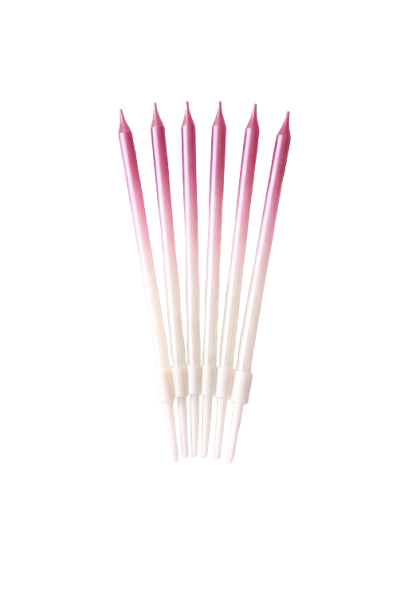
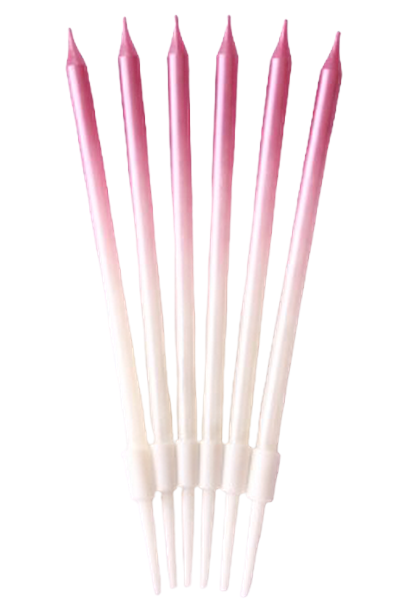
Fix candle image sizing: content-crop each spiral/ombré image individually
- Revert previous uniform scale-[1.6] CSS approach (wrong: each image
  had different content bounds so one scale didn't fit all)
- Content-crop and resize each image to fill its 408×612 frame:
  blue-ombre 45%→65%, thick-spiral 55%→80%, shiny-spiral 53%→77%,
  spiral-pastel 53%→85%, pink-ombre 42%→68% (all now ~95% height)
- All spiral candles now display at consistent visual size matching
  the Pink Gold / Silver / Gold / Champagne spirals

Claude-Session: https://claude.ai/code/session_01SnvWgp6uZ9RRA8RfdsPh4F

Changed region(s): [[0.1471, 0.031, 0.8529, 0.9624]]

diff --git a/src/pages/KitBentoCake.tsx b/src/pages/KitBentoCake.tsx
@@ -179,16 +179,16 @@ const pipingBagOptions = [
 
 export const candles = [
   // Single ordered list (Blue Ombré, Thick Spiral, Shiny Spiral, Pastel Spiral, Rainbow, Pink Ombré, Daisy, Red Heart, then the rest)
-  { id: "blue-ombre", name: "Blue Ombré", nameFr: "Ombré Bleu", image: candleBlueOmbre, imageClassName: "h-40 w-40 scale-[1.6]", unitPrice: 1, hasPack: true, packPrice: 5, packSize: 6 },
-  { id: "thick-spiral", name: "Thick Spiral", nameFr: "Spirale Épaisse", image: candleThickSpiral, imageClassName: "h-40 w-40 scale-[1.6]", unitPrice: 2, hasPack: true, packPrice: 10, packSize: 6 },
+  { id: "blue-ombre", name: "Blue Ombré", nameFr: "Ombré Bleu", image: candleBlueOmbre, unitPrice: 1, hasPack: true, packPrice: 5, packSize: 6 },
+  { id: "thick-spiral", name: "Thick Spiral", nameFr: "Spirale Épaisse", image: candleThickSpiral, unitPrice: 2, hasPack: true, packPrice: 10, packSize: 6 },
   { id: "pink-gold-spiral", name: "Pink Gold Spiral", nameFr: "Spirale Or Rose", image: candlePinkGoldSpiral, imageClassName: "h-40 w-40 scale-[1.6]", unitPrice: 1, hasPack: true, packPrice: 5, packSize: 6 },
   { id: "silver-spiral", name: "Silver Spiral", nameFr: "Spirale Argent", image: candleSilverSpiral, imageClassName: "h-40 w-40 scale-[1.6]", unitPrice: 1, hasPack: true, packPrice: 5, packSize: 6 },
   { id: "gold-spiral", name: "Gold Spiral", nameFr: "Spirale Or", image: candleGoldSpiral, imageClassName: "h-40 w-40 scale-[1.6]", unitPrice: 1, hasPack: true, packPrice: 5, packSize: 6 },
   { id: "spiral-champagne", name: "Spiral Champagne", nameFr: "Spirale Champagne", image: candleChampagneSpiral, imageClassName: "h-40 w-40 scale-[1.6]", unitPrice: 1, hasPack: true, packPrice: 5, packSize: 6 },
-  { id: "shiny-spiral", name: "Shiny Spiral", nameFr: "Spirale Brillante", image: candleShinySpiral, imageClassName: "h-40 w-40 scale-[1.6]", unitPrice: 1, hasPack: true, packPrice: 5, packSize: 6 },
-  { id: "spiral-pastel", name: "Pastel Spiral", nameFr: "Spirale Pastel", image: candleSpiralPastel, imageClassName: "h-40 w-40 scale-[1.6]", unitPrice: 1, hasPack: true, packPrice: 5, packSize: 6 },
+  { id: "shiny-spiral", name: "Shiny Spiral", nameFr: "Spirale Brillante", image: candleShinySpiral, unitPrice: 1, hasPack: true, packPrice: 5, packSize: 6 },
+  { id: "spiral-pastel", name: "Pastel Spiral", nameFr: "Spirale Pastel", image: candleSpiralPastel, unitPrice: 1, hasPack: true, packPrice: 5, packSize: 6 },
   { id: "rainbow", name: "Rainbow", nameFr: "Arc-en-ciel", image: candleRainbow, unitPrice: 1, hasPack: true, packPrice: 5, packSize: 6 },
-  { id: "pink-ombre", name: "Pink Ombré", nameFr: "Ombré Rose", image: candlePinkOmbre, imageClassName: "h-40 w-40 scale-[1.6]", unitPrice: 1, hasPack: true, packPrice: 5, packSize: 6 },
+  { id: "pink-ombre", name: "Pink Ombré", nameFr: "Ombré Rose", image: candlePinkOmbre, unitPrice: 1, hasPack: true, packPrice: 5, packSize: 6 },
   { id: "daisy", name: "Daisy", nameFr: "Marguerite", image: candleDaisy, unitPrice: 2, hasPack: false },
   { id: "heart", name: "Red Heart", nameFr: "Cœur Rouge", image: candleHeart, unitPrice: 2, hasPack: false },
   { id: "puppy", name: "Puppy", nameFr: "Chiot", image: candlePuppy, unitPrice: 2, hasPack: false },
